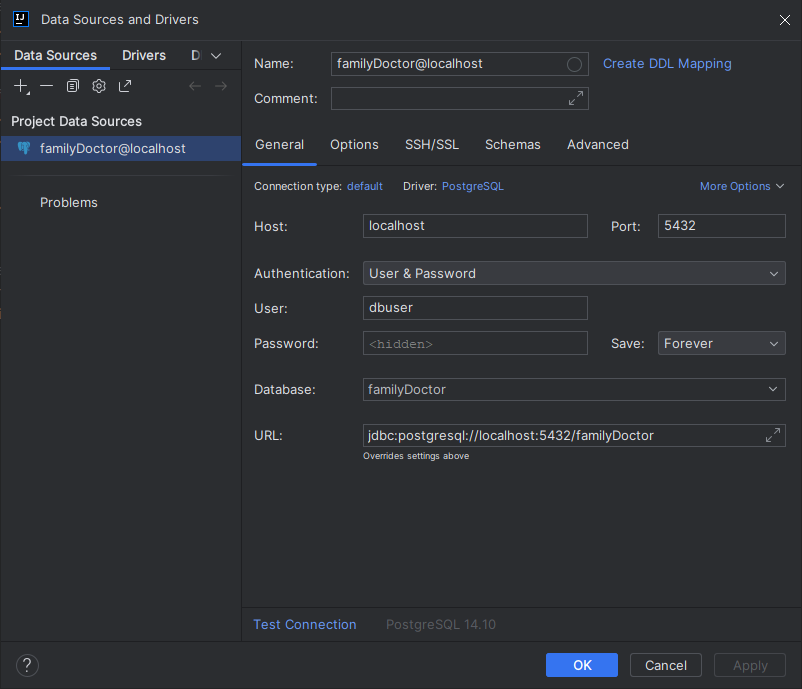
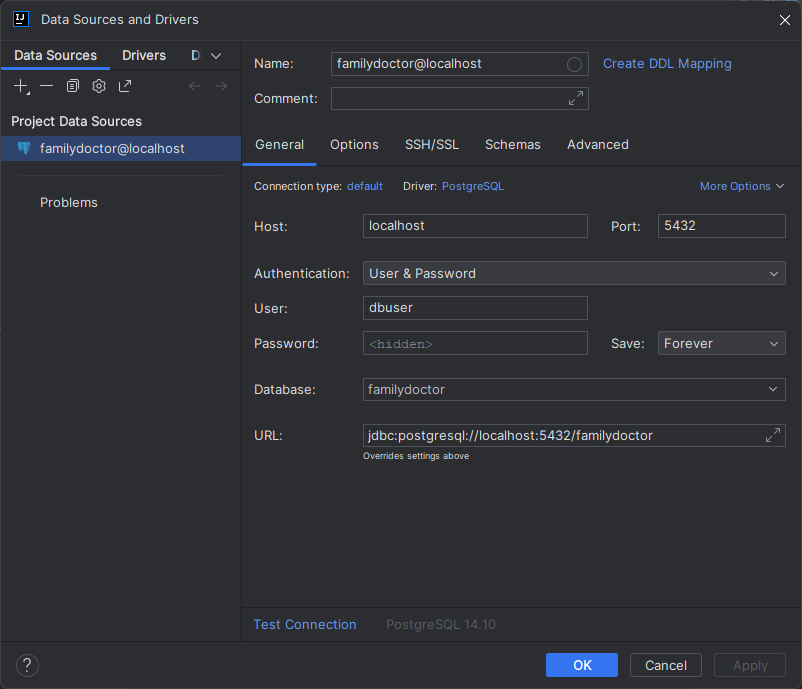
User n Role Entity re-created

diff --git a/src/main/java/ds/familydoctor/entity/User.java b/src/main/java/ds/familydoctor/entity/User.java
@@ -1,0 +1,172 @@
+package ds.familydoctor.entity;
+
+import jakarta.persistence.*;
+import jakarta.validation.constraints.*;
+
+import java.util.*;
+
+@Entity
+@Table(name = "users", uniqueConstraints = {
+    @UniqueConstraint(columnNames = "username"),
+    @UniqueConstraint(columnNames = "email")
+})
+public class User {
+
+  @Id
+  @GeneratedValue(strategy = GenerationType.IDENTITY)
+  private Long id;
+
+  @NotBlank
+  @Size(min = 5, max = 40)
+  private String username;
+
+  @NotBlank
+  @Size(min = 8)
+  private String password;
+
+  @NotBlank
+  @Email
+  private String email;
+
+  @NotBlank
+  private String full_name;
+
+  @NotBlank
+  @Pattern(regexp = "\\d{10}")
+  private String phone_number;
+
+  @NotBlank
+  private String home_address;
+
+  @NotBlank
+  private String country;
+
+  @NotBlank
+  private String continent;
+
+  @NotBlank
+  private String prefecture;
+
+  @NotBlank
+  private String city;
+
+  @ManyToMany(fetch = FetchType.EAGER)
+  @JoinTable(name = "user_roles", joinColumns = { @JoinColumn(name = "userId") }, inverseJoinColumns = {
+      @JoinColumn(name = "roleId") })
+  private Set<Role> roles = new HashSet<>();
+
+  public User(Long id, String username, String password, String email, String full_name, String phone_number,
+      String home_address, String country, String continent, String prefecture, String city, Set<Role> roles) {
+    this.id = id;
+    this.username = username;
+    this.password = password;
+    this.email = email;
+    this.full_name = full_name;
+    this.phone_number = phone_number;
+    this.home_address = home_address;
+    this.country = country;
+    this.continent = continent;
+    this.prefecture = prefecture;
+    this.city = city;
+    this.roles = roles;
+  }
+
+  public User() {
+  }
+
+  public Long getId() {
+    return id;
+  }
+
+  public void setId(Long id) {
+    this.id = id;
+  }
+
+  public String getUsername() {
+    return username;
+  }
+
+  public void setUsername(String username) {
+    this.username = username;
+  }
+
+  public String getPassword() {
+    return password;
+  }
+
+  public void setPassword(String password) {
+    this.password = password;
+  }
+
+  public String getEmail() {
+    return email;
+  }
+
+  public void setEmail(String email) {
+    this.email = email;
+  }
+
+  public String getFull_name() {
+    return full_name;
+  }
+
+  public void setFull_name(String full_name) {
+    this.full_name = full_name;
+  }
+
+  public String getPhone_number() {
+    return phone_number;
+  }
+
+  public void setPhone_number(String phone_number) {
+    this.phone_number = phone_number;
+  }
+
+  public String getHome_address() {
+    return home_address;
+  }
+
+  public void setHome_address(String home_address) {
+    this.home_address = home_address;
+  }
+
+  public String getCountry() {
+    return country;
+  }
+
+  public void setCountry(String country) {
+    this.country = country;
+  }
+
+  public String getContinent() {
+    return continent;
+  }
+
+  public void setContinent(String continent) {
+    this.continent = continent;
+  }
+
+  public String getPrefecture() {
+    return prefecture;
+  }
+
+  public void setPrefecture(String prefecture) {
+    this.prefecture = prefecture;
+  }
+
+  public String getCity() {
+    return city;
+  }
+
+  public void setCity(String city) {
+    this.city = city;
+  }
+
+  public Set<Role> getRoles() {
+    return roles;
+  }
+
+  public void setRoles(Set<Role> roles) {
+    this.roles = roles;
+  }
+}

diff --git a/src/main/java/ds/familydoctor/entity/Role.java b/src/main/java/ds/familydoctor/entity/Role.java
@@ -1,0 +1,38 @@
+package ds.familydoctor.entity;
+
+import jakarta.persistence.*;
+
+@Entity
+public class Role {
+
+  @Id
+  @GeneratedValue(strategy = GenerationType.IDENTITY)
+  private Long id;
+
+  private String name;
+
+  public Role() {
+  }
+
+  public Role(Long id, String name) {
+    this.id = id;
+    this.name = name;
+  }
+
+  public Long getId() {
+    return id;
+  }
+
+  public void setId(Long id) {
+    this.id = id;
+  }
+
+  public String getName() {
+    return name;
+  }
+
+  public void setName(String name) {
+    this.name = name;
+  }
+
+}
